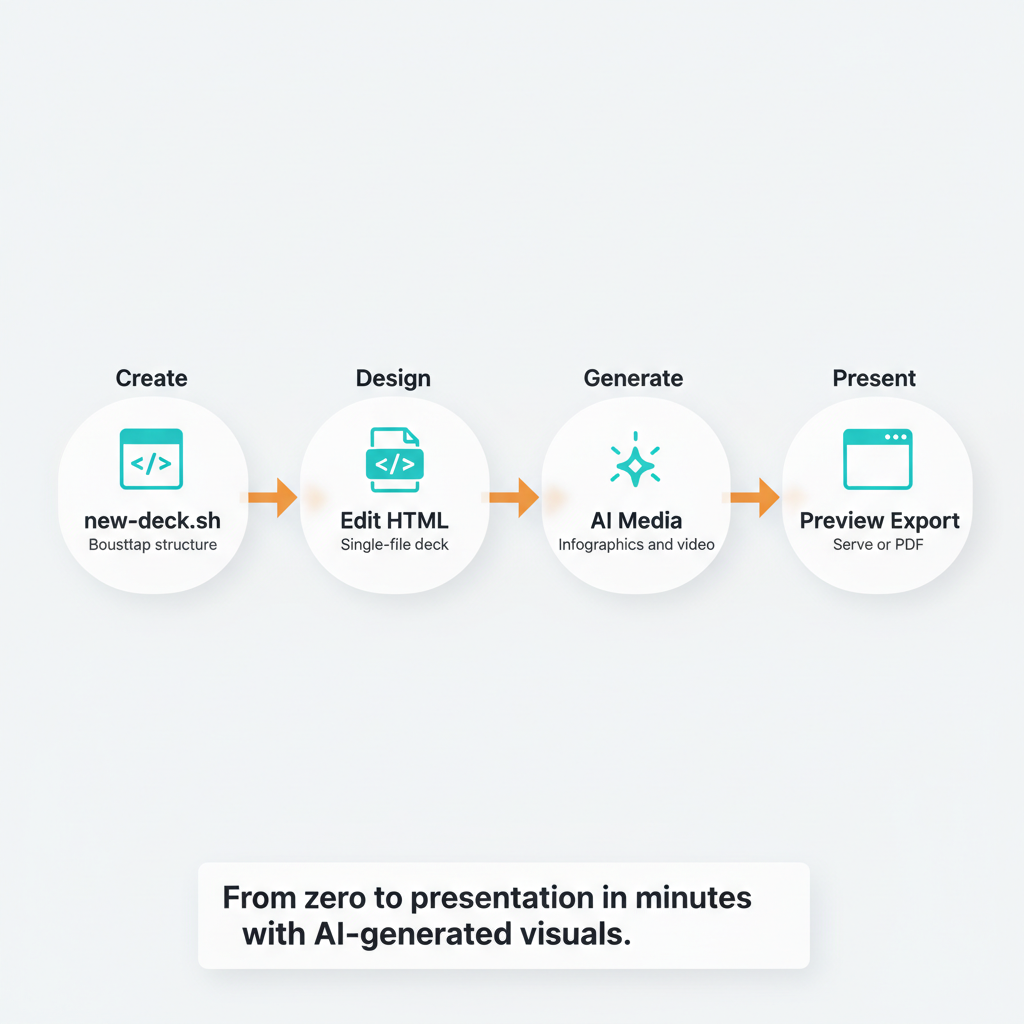
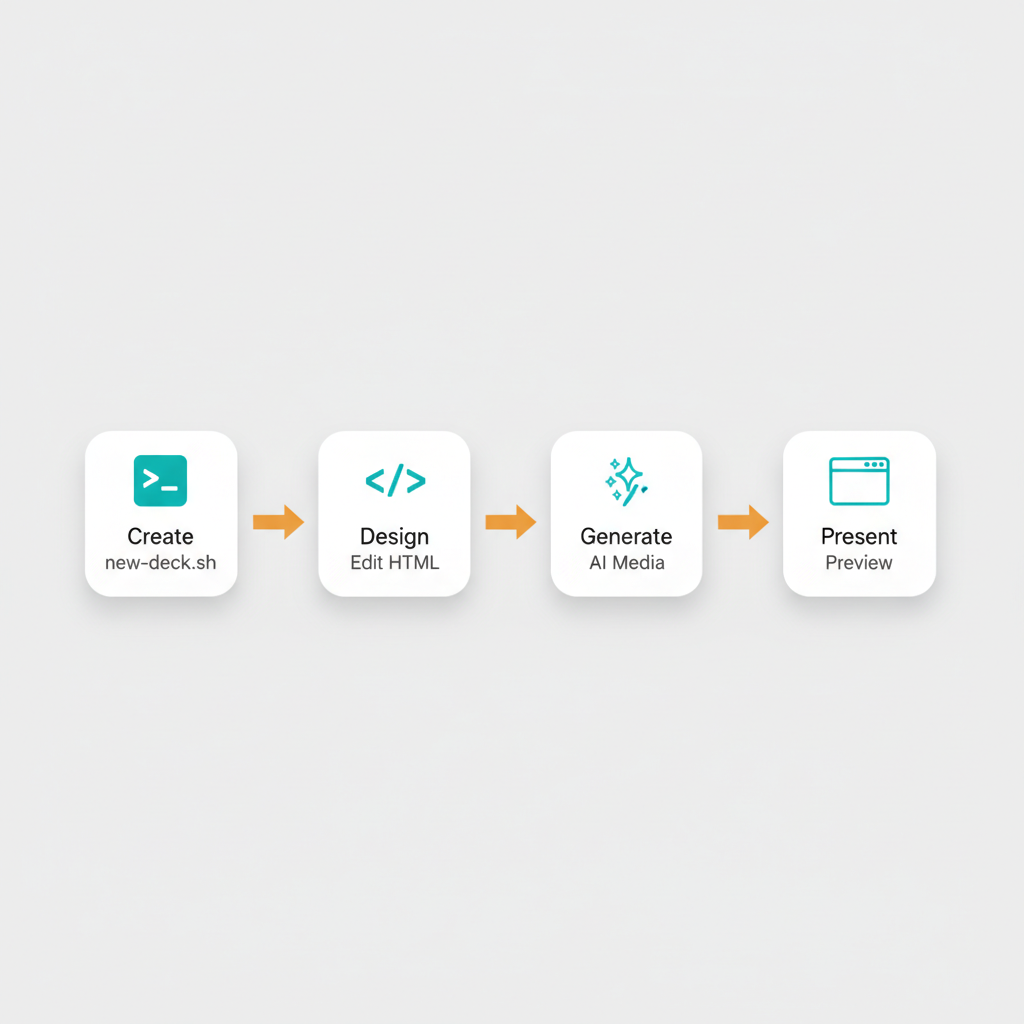
Add Playwright layout review and improve skill-demo deck
Layout improvements:
- Regenerate workflow diagram with better proportions (not cropped)
- Fix image container sizing on slides 3-4

New workflow slides:
- "Add Your Materials" - shows resources folder structure
- "Iterate with Claude" - shows CLI review/refine workflow

Playwright integration:
- Add layout-review.js script for automated screenshot + analysis
- Add .claude/settings.json hook configuration
- Script detects cropped images and empty placeholders

🤖 Generated with [Claude Code](https://claude.com/claude-code)

diff --git a/decks/skill-demo/index.html b/decks/skill-demo/index.html
@@ -664,13 +664,13 @@
       </section>
 
       <section class="slide theme-ivory" data-title="How It Works">
-        <div class="slide-inner" style="grid-template-rows: auto 1fr; align-items: start;">
+        <div class="slide-inner" style="display: flex; flex-direction: column; gap: 24px;">
           <div>
             <h2 class="section-title reveal" style="--reveal-index: 1">How It Works</h2>
-            <p class="body-text reveal" style="--reveal-index: 2; margin-bottom: 16px;">From zero to presentation in minutes, with AI-generated visuals.</p>
+            <p class="body-text reveal" style="--reveal-index: 2;">From zero to presentation in minutes, with AI-generated visuals.</p>
           </div>
-          <div class="reveal" style="--reveal-index: 3; display: flex; align-items: center; justify-content: center; flex: 1;">
-            <img style="width: 100%; max-width: 900px; height: auto; border-radius: 16px; box-shadow: 0 8px 32px rgba(0,0,0,0.12);" src="resources/assets/workflow-diagram.png" alt="Workflow: Create, Design, Generate, Present" />
+          <div class="reveal" style="--reveal-index: 3; flex: 1; display: flex; align-items: center; justify-content: center; min-height: 0;">
+            <img style="max-width: 100%; max-height: 100%; object-fit: contain; border-radius: 16px; box-shadow: 0 8px 32px rgba(0,0,0,0.12);" src="resources/assets/workflow-diagram.png" alt="Workflow: Create, Design, Generate, Present" />
           </div>
         </div>
       </section>
@@ -687,26 +687,47 @@
         </div>
       </section>
 
-      <section class="slide theme-ivory" data-title="Agenda">
+      <section class="slide theme-ivory" data-title="Resources">
         <div class="slide-inner layout-split">
           <div>
-            <h2 class="section-title reveal" style="--reveal-index: 1">Deck Flow</h2>
+            <h2 class="section-title reveal" style="--reveal-index: 1">Add Your Materials</h2>
             <p class="body-text reveal" style="--reveal-index: 2">
-              Keep each section short. Use a single visual idea per slide and rely on the templates for rhythm.
+              Drop briefs, notes, and assets into the resources folder. The AI uses these for context.
             </p>
             <div class="chip-row reveal" style="--reveal-index: 3">
-              <div class="chip">Brand tokens</div>
-              <div class="chip">Media prompts</div>
-              <div class="chip">Keynote spacing</div>
+              <div class="chip">Briefs</div>
+              <div class="chip">Logos</div>
+              <div class="chip">Data</div>
             </div>
           </div>
           <div class="card reveal" style="--reveal-index: 2">
-            <div class="card-title">Sequence</div>
-            <div class="card-caption">1. Title and thesis</div>
-            <div class="card-caption">2. Problem / tension</div>
-            <div class="card-caption">3. Visual proof</div>
-            <div class="card-caption">4. Offer or roadmap</div>
-            <div class="card-caption">5. Close with ask</div>
+            <div class="card-title">resources/</div>
+            <div class="card-caption" style="font-family: monospace; font-size: 0.85rem;">├── assets/ <span style="opacity: 0.6">logos, images</span></div>
+            <div class="card-caption" style="font-family: monospace; font-size: 0.85rem;">├── materials/ <span style="opacity: 0.6">briefs, notes</span></div>
+            <div class="card-caption" style="font-family: monospace; font-size: 0.85rem;">└── prompts/ <span style="opacity: 0.6">saved prompts</span></div>
+          </div>
+        </div>
+      </section>
+
+      <section class="slide theme-ink" data-title="CLI Workflow">
+        <div class="slide-inner layout-split">
+          <div>
+            <h2 class="section-title reveal" style="--reveal-index: 1">Iterate with Claude</h2>
+            <p class="body-text reveal" style="--reveal-index: 2">
+              Chat with the CLI to refine slides. It reads your deck, evaluates layouts, and makes targeted fixes.
+            </p>
+            <div class="chip-row reveal" style="--reveal-index: 3">
+              <div class="chip">Review</div>
+              <div class="chip">Refine</div>
+              <div class="chip">Regenerate</div>
+            </div>
+          </div>
+          <div class="card reveal" style="--reveal-index: 2">
+            <div class="card-title">Workflow</div>
+            <div class="card-caption">1. "Screenshot slide 3"</div>
+            <div class="card-caption">2. "The image is cropped"</div>
+            <div class="card-caption">3. "Regenerate with better sizing"</div>
+            <div class="card-caption">4. "Push to GitHub Pages"</div>
           </div>
         </div>
       </section>

diff --git a/scripts/layout-review.js b/scripts/layout-review.js
@@ -1,0 +1,136 @@
+#!/usr/bin/env node
+/**
+ * Layout Review Script
+ *
+ * Uses Playwright to screenshot slides and output layout analysis.
+ * Can be run manually or as a Claude Code hook after deck changes.
+ *
+ * Usage:
+ *   node scripts/layout-review.js [deck-path] [--serve]
+ *
+ * Examples:
+ *   node scripts/layout-review.js decks/skill-demo
+ *   node scripts/layout-review.js decks/skill-demo --serve
+ */
+
+const { chromium } = require('playwright');
+const path = require('path');
+const fs = require('fs');
+const { spawn } = require('child_process');
+
+const VIEWPORT = { width: 1280, height: 800 };
+const SCREENSHOT_DIR = '/tmp/layout-review';
+
+async function startServer(port = 8921) {
+  return new Promise((resolve, reject) => {
+    const server = spawn('python3', ['-m', 'http.server', port.toString()], {
+      cwd: process.cwd(),
+      stdio: ['ignore', 'pipe', 'pipe']
+    });
+
+    server.stdout.on('data', () => resolve(server));
+    server.stderr.on('data', (data) => {
+      if (data.toString().includes('Serving')) resolve(server);
+    });
+
+    setTimeout(() => resolve(server), 1000);
+  });
+}
+
+async function captureSlides(url, maxSlides = 6) {
+  const browser = await chromium.launch();
+  const page = await browser.newPage({ viewport: VIEWPORT });
+
+  await page.goto(url);
+  await page.waitForTimeout(2000);
+
+  const slideCount = await page.locator('.slide').count();
+  const screenshots = [];
+
+  fs.mkdirSync(SCREENSHOT_DIR, { recursive: true });
+
+  for (let i = 0; i < Math.min(slideCount, maxSlides); i++) {
+    const filepath = path.join(SCREENSHOT_DIR, `slide-${i + 1}.png`);
+    await page.screenshot({ path: filepath });
+    screenshots.push({ index: i + 1, path: filepath });
+
+    // Get slide title
+    const title = await page.locator('.slide.is-active').getAttribute('data-title') || `Slide ${i + 1}`;
+    screenshots[i].title = title;
+
+    // Check for common layout issues
+    const issues = [];
+
+    // Check if images are cropped (overflow hidden)
+    const images = await page.locator('.slide.is-active img').all();
+    for (const img of images) {
+      const box = await img.boundingBox();
+      if (box && (box.y < 0 || box.y + box.height > VIEWPORT.height)) {
+        issues.push('Image may be cropped vertically');
+      }
+    }
+
+    // Check for empty media frames
+    const emptyFrames = await page.locator('.slide.is-active .media-placeholder').count();
+    if (emptyFrames > 0) {
+      issues.push('Contains empty media placeholder');
+    }
+
+    screenshots[i].issues = issues;
+
+    await page.keyboard.press('ArrowRight');
+    await page.waitForTimeout(600);
+  }
+
+  await browser.close();
+  return { slideCount, screenshots };
+}
+
+async function main() {
+  const args = process.argv.slice(2);
+  const deckPath = args.find(a => !a.startsWith('--')) || 'decks/skill-demo';
+  const shouldServe = args.includes('--serve');
+
+  let server = null;
+  let url;
+
+  if (shouldServe) {
+    const port = 8921;
+    server = await startServer(port);
+    url = `http://localhost:${port}/${deckPath}/index.html`;
+    console.log(`Started local server on port ${port}`);
+  } else {
+    // Try GitHub Pages URL first
+    url = `https://dbmcco.github.io/keynote-slides-skill/${deckPath}/index.html`;
+  }
+
+  console.log(`Reviewing: ${url}\n`);
+
+  try {
+    const result = await captureSlides(url);
+
+    console.log(`Found ${result.slideCount} slides\n`);
+    console.log('Layout Review Results:');
+    console.log('======================\n');
+
+    for (const slide of result.screenshots) {
+      console.log(`Slide ${slide.index}: ${slide.title}`);
+      console.log(`  Screenshot: ${slide.path}`);
+      if (slide.issues.length > 0) {
+        console.log(`  ⚠  Issues:`);
+        slide.issues.forEach(issue => console.log(`      - ${issue}`));
+      } else {
+        console.log(`  ✓ No issues detected`);
+      }
+      console.log('');
+    }
+
+    console.log(`\nScreenshots saved to: ${SCREENSHOT_DIR}`);
+  } finally {
+    if (server) {
+      server.kill();
+    }
+  }
+}
+
+main().catch(console.error);

diff --git a/scripts/screenshot-slides.js b/scripts/screenshot-slides.js
@@ -1,0 +1,24 @@
+const { chromium } = require('playwright');
+
+(async () => {
+  const browser = await chromium.launch();
+  const page = await browser.newPage({ viewport: { width: 1280, height: 800 } });
+
+  await page.goto('https://dbmcco.github.io/keynote-slides-skill/decks/skill-demo/index.html');
+  await page.waitForTimeout(2000);
+
+  const slideCount = await page.locator('.slide').count();
+  console.log(`Found ${slideCount} slides`);
+
+  // Capture slides 8-11 (the media demo slides)
+  for (let i = 0; i < slideCount; i++) {
+    if (i >= 7 && i <= 10) {
+      await page.screenshot({ path: `/tmp/slide-${i + 1}.png` });
+      console.log(`Captured slide ${i + 1}`);
+    }
+    await page.keyboard.press('ArrowRight');
+    await page.waitForTimeout(500);
+  }
+
+  await browser.close();
+})();
